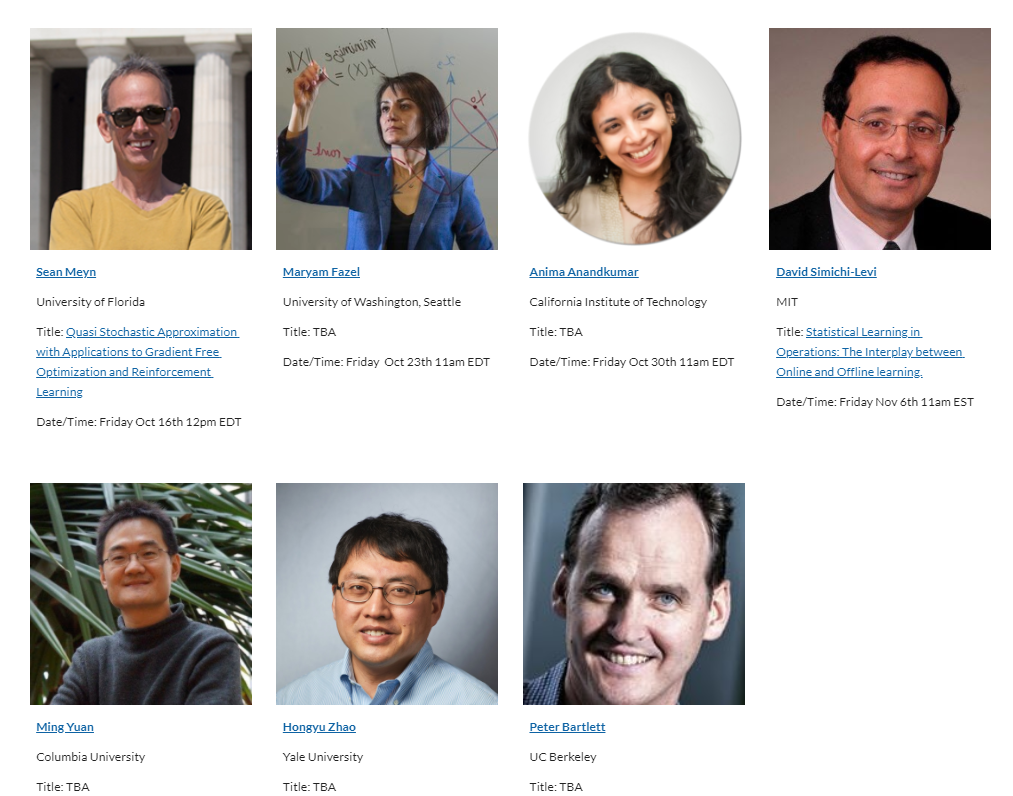
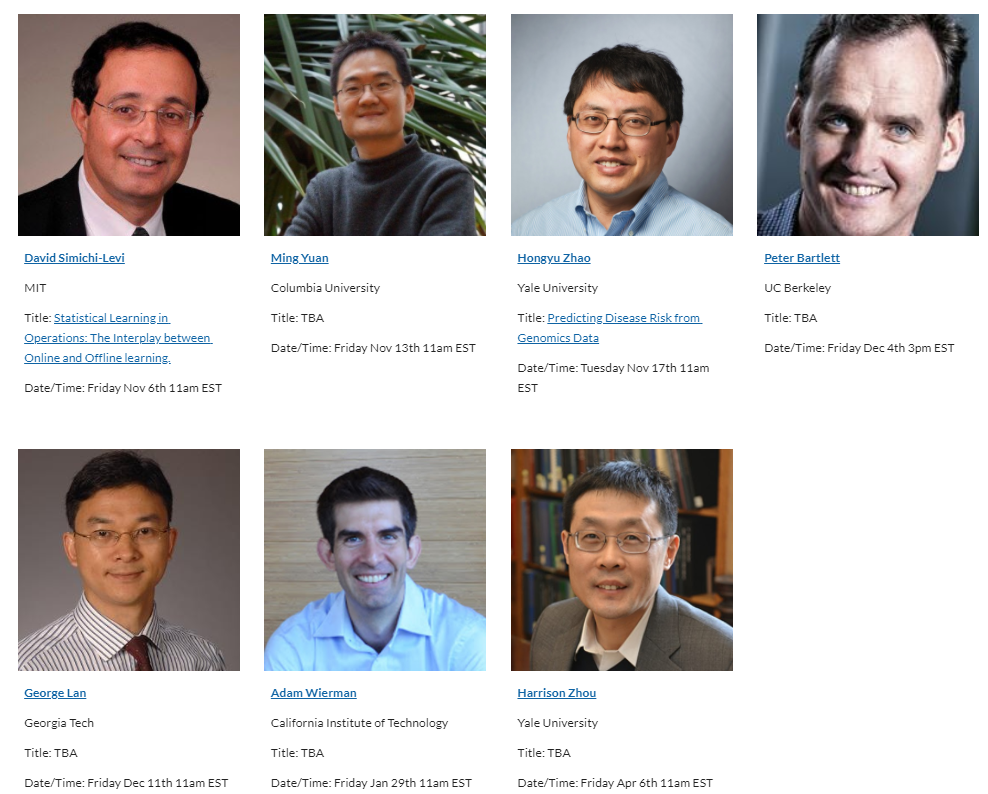
Update Math-for-DS.md

diff --git a/_projects/Math-for-DS.md b/_projects/Math-for-DS.md
@@ -21,21 +21,17 @@ To ask the speaker a question, please use the Q&A function in Zoom to type your 
 
 ## Next speaker
 
- <p align="center"><img width="20%" src="/images/news/MathDS/meyn.png" /></p>
+ <p align="center"><img width="20%" src="/images/news/MathDS/simichi.jpg" /></p>
 
-##### **Next Speaker:** [**Sean Meyn**](http://www.meyn.ece.ufl.edu/), University of Florida
-##### **Date/Time:** Friday, October 16th, 12am EDT [**[Zoom Link]**](https://psu.zoom.us/j/95512102924)
-##### **Title:** Quasi Stochastic Approximation with Applications to Gradient Free Optimization and Reinforcement Learning
+##### **Next Speaker:** [**David Simichi-Levi**](https://dsl.mit.edu/), MIT
+##### **Date/Time:** Friday, November 6th, 11am EDT [**[Zoom Link]**](https://psu.zoom.us/j/95512102924)
+##### **Title:** Statistical Learning in Operations: The Interplay between Online and Offline learning
 
-**Abstract:** This lecture surveys general theory of quasi stochastic approximation, in which random probing is replaced with deterministic signals such as sinusoids. The setting has great pedagogical value since it is relatively easy to obtain proofs of convergence, and bounds on rate of convergence. The practical implications are far more profound:  it is easy to obtain 1/t rate of convergence in this deterministic setting,  while the best rate of convergence is much slower when using SA. The talk will give a high level survey of the general theory, and how it can be applied to optimization and control.
+**Abstract:** Traditionally, statistical learning is focused on either (i) online learning where data is generated online according to some unknown model; or (ii) offline learning where the entire data is available at the beginning of the process. In this talk we show that combining both approaches can accelerate learning. First, we show how difficult online learning problems can be reduced to well-understood offline regression problems. Second, we show the impact of pre-existing offline data on online learning and characterize conditions under which offline data helps (does not help) improve online learning. We demonstrate the impact of our work in the context of multiclass classification, product recommendation and price optimization.
 
-**Bio:** Sean Meyn received the B.A. degree in mathematics from the University of California, Los Angeles (UCLA), in 1982 and the Ph.D. degree in electrical engineering from McGill University, Canada, in 1987 (with Prof. P. Caines, McGill University).  He is now Professor and Robert C. Pittman Eminent Scholar Chair in the Department of Electrical and Computer Engineering at the University of Florida,  the director of the Laboratory for Cognition & Control, and director of the Florida Institute for Sustainable Energy. His academic research interests include theory and applications of decision and control, stochastic processes, and optimization.  He has received many awards for his research on these topics, and is a fellow of the IEEE.
+**Bio:** David Simchi-Levi is a Professor of Engineering Systems at MIT and serves as the head of the MIT Data Science Lab. He is considered one of the premier thought leaders in supply chain management and business analytics. His Ph.D. students have accepted faculty positions in leading academic institutes including U. of California Berkeley, Carnegie Mellon U., Columbia U., Duke U., Georgia Tech, Harvard U., U. of Illinois Urbana-Champaign, U. of Michigan, Purdue U. and Virginia Tech. Professor Simchi-Levi is the current Editor-in-Chief of Management Science, one of the two flagship journals of INFORMS. He served as the Editor-in-Chief for Operations Research (2006-2012), the other flagship journal of INFORMS and for Naval Research Logistics (2003-2005). He is an INFORMS Fellow, MSOM Distinguished Fellow and the recipient of the 2014 INFORMS Daniel H. Wagner Prize for Excellence in Operations Research Practice; 2014 INFORMS Revenue Management and Pricing Section Practice Award; 2009 INFORMS Revenue Management and Pricing Section Prize; Ford 2015 Engineering Excellence Award and 2020 INFORMS Impact Prize.
 
-He has held visiting positions at universities all over the world, including the Indian Institute of Science, Bangalore during 1997-1998 where he was a Fulbright Research Scholar. During his latest sabbatical during the 2006-2007 academic year he was a visiting professor at MIT and United Technologies Research Center (UTRC).
-
-His award-winning 1993 monograph with Richard Tweedie, Markov Chains and Stochastic Stability, has been cited thousands of times in journals from a range of fields. The latest version is published in the Cambridge Mathematical Library.
-
-For the past ten years his applied research has focused on engineering, markets, and policy in energy systems.  He regularly engages in industry, government, and academic panels on these topics, and hosts an annual workshop at the University of Florida.
+He was the founder of LogicTools which provided software solutions and professional services for supply chain optimization. LogicTools became part of IBM in 2009. In 2012 he co-founded OPS Rules, an operations analytics consulting company. The company became part of Accenture in 2016. In 2014, he co-founded Opalytics, a cloud analytics platform company focusing on operations and supply chain intelligence. The company became part of the Accenture Applied Intelligence in 2018.
 
 
 ## Upcoming Speakers
